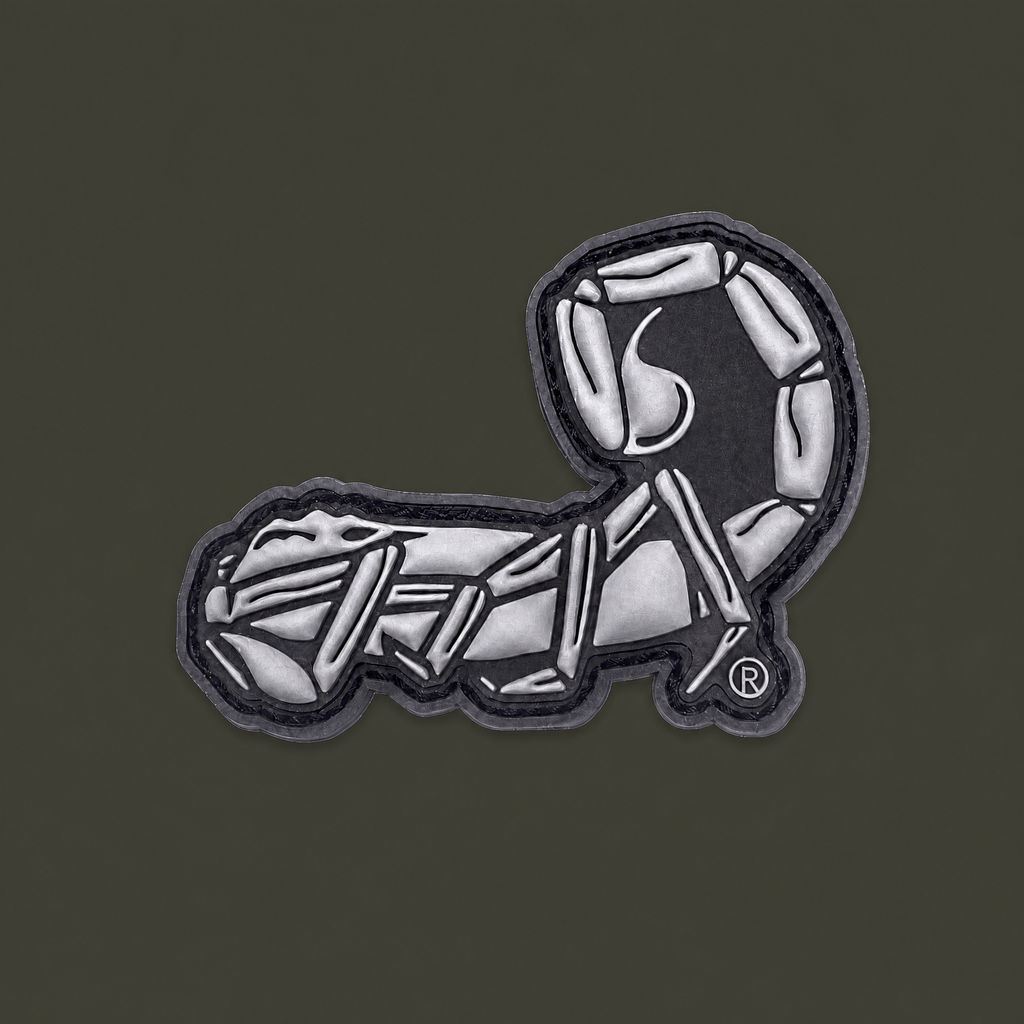
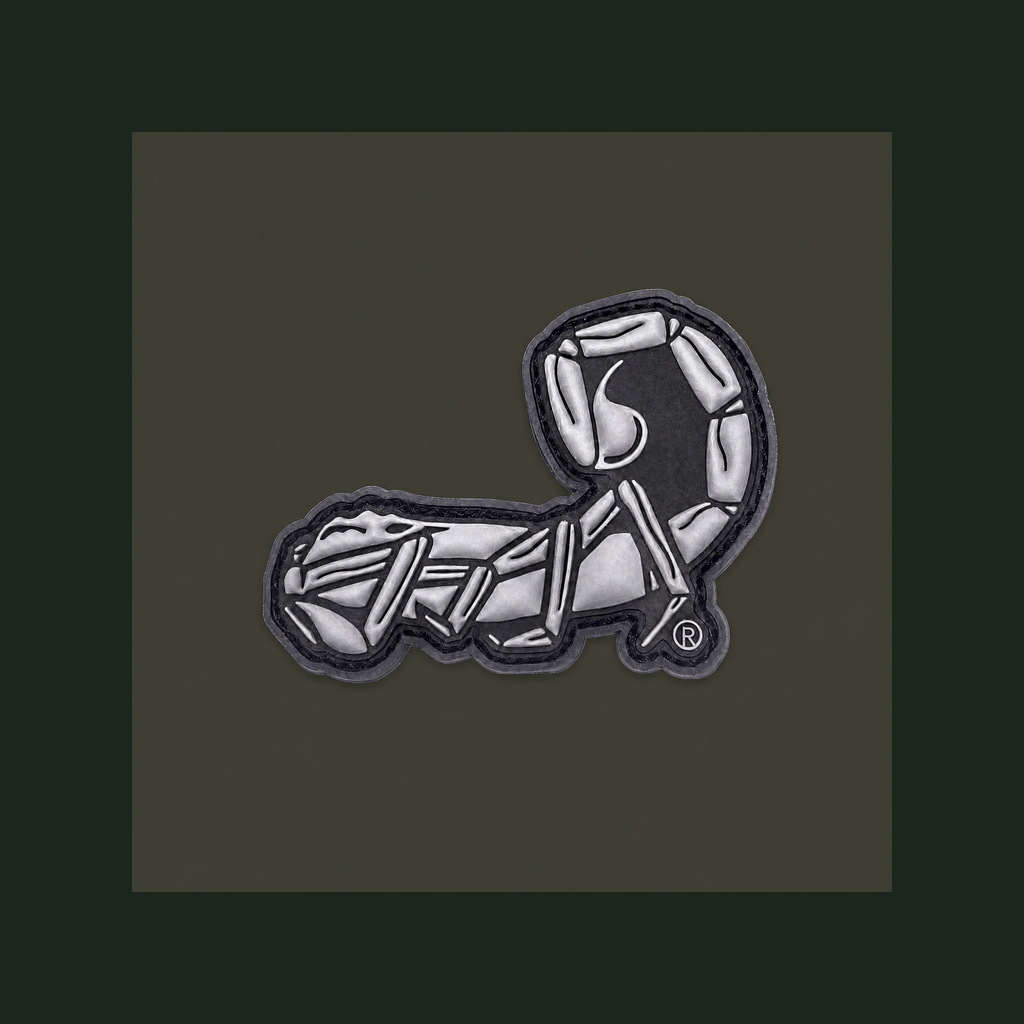
Fix Android launcher safety and dashboard spacing

diff --git a/components/catalog-ui.tsx b/components/catalog-ui.tsx
@@ -93,15 +93,15 @@ const styles = StyleSheet.create({
   metricValue: { color: "#F2F0E9", fontSize: 24, fontWeight: "800", letterSpacing: -0.5 },
   metricLabel: { color: "#9AA2A4", fontSize: 11, marginTop: 3, fontWeight: "600" },
   rowPressable: { width: "100%", marginBottom: 9, flexGrow: 0, flexShrink: 0 },
-  rowCard: { width: "100%", height: 76, minHeight: 76, flexGrow: 0, flexShrink: 0, alignSelf: "stretch", backgroundColor: "#191D1F", borderRadius: 18, paddingHorizontal: 12, paddingVertical: 10, flexDirection: "row", alignItems: "center", borderWidth: 1, borderColor: "#303A32", overflow: "hidden" },
+  rowCard: { width: "100%", flexGrow: 0, flexShrink: 0, alignSelf: "stretch", backgroundColor: "#191D1F", borderRadius: 18, paddingHorizontal: 12, paddingVertical: 10, flexDirection: "row", alignItems: "center", borderWidth: 1, borderColor: "#303A32", overflow: "hidden" },
   rowPressed: { opacity: 0.72, transform: [{ scale: 0.99 }] },
   rowMarker: { width: 3, height: 48, borderRadius: 4, flexShrink: 0 },
   rowImage: { width: 48, height: 48, borderRadius: 12, marginLeft: 9, backgroundColor: "#F1F0EC", flexShrink: 0, borderWidth: 1, borderColor: "#E3E3DD" },
   rowImagePlaceholder: { width: 48, height: 48, borderRadius: 12, marginLeft: 9, backgroundColor: "#242A2B", alignItems: "center", justifyContent: "center", flexShrink: 0, borderWidth: 1, borderColor: "#303A32" },
-  rowBody: { flex: 1, minWidth: 0, minHeight: 40, justifyContent: "center", marginHorizontal: 10 },
-  rowTopLine: { height: 21, flexDirection: "row", alignItems: "center" },
+  rowBody: { flex: 1, minWidth: 0, justifyContent: "center", marginHorizontal: 10 },
+  rowTopLine: { minHeight: 18, flexDirection: "row", alignItems: "center" },
   rowTitle: { color: "#F2F0E9", fontSize: 13.5, fontWeight: "700", lineHeight: 18, flex: 1 },
-  rowMeta: { height: 17, flexDirection: "row", alignItems: "center", marginTop: 2 },
+  rowMeta: { minHeight: 15, flexDirection: "row", alignItems: "center", marginTop: 2 },
   rowCategory: { color: "#A8D46F", fontSize: 11, fontWeight: "700", marginRight: 6 },
   rowSeparator: { color: "#687274", fontSize: 11, marginRight: 6 },
   rowRegions: { color: "#858E90", fontSize: 11 },

diff --git a/app/(tabs)/index.tsx b/app/(tabs)/index.tsx
@@ -109,10 +109,10 @@ const styles = StyleSheet.create({
   heroRingValue: { color: "#F2F0E9", fontSize: 20, fontWeight: "800", lineHeight: 22 },
   heroRingLabel: { color: "#9AA2A4", fontSize: 10, fontWeight: "700" },
   heroCaption: { color: "#A7B0A8", fontSize: 12, lineHeight: 17, marginTop: 11 },
-  metricsRow: { flexDirection: "row", marginBottom: 10 },
+  metricsRow: { flexDirection: "row", justifyContent: "space-between", marginBottom: 10 },
   quickActions: { marginTop: 4, marginBottom: 22, width: "100%" },
-  quickAction: { width: "100%", height: 52, minHeight: 52, flexGrow: 0, flexShrink: 0, backgroundColor: "#191D1F", borderRadius: 16, paddingHorizontal: 12, borderWidth: 1, borderColor: "#303A32", marginBottom: 8 },
-  quickActionInner: { width: "100%", height: 50, flexDirection: "row", alignItems: "center" },
+  quickAction: { width: "100%", minHeight: 52, flexGrow: 0, flexShrink: 0, backgroundColor: "#191D1F", borderRadius: 16, paddingHorizontal: 12, paddingVertical: 10, borderWidth: 1, borderColor: "#303A32", marginBottom: 8 },
+  quickActionInner: { width: "100%", minHeight: 30, flexDirection: "row", alignItems: "center" },
   quickActionIcon: { width: 32, height: 32, borderRadius: 10, backgroundColor: "#28352A", alignItems: "center", justifyContent: "center", flexShrink: 0 },
   quickActionText: { flex: 1, color: "#F2F0E9", fontWeight: "700", fontSize: 13, marginLeft: 11 },
   pressed: { opacity: 0.65 },

diff --git a/app.config.ts b/app.config.ts
@@ -41,7 +41,7 @@ const env = {
 const config: ExpoConfig = {
   name: env.appName,
   slug: env.appSlug,
-  version: "1.0.5",
+  version: "1.0.6",
   orientation: "portrait",
   icon: "./assets/images/icon.png",
   scheme: env.scheme,
@@ -62,7 +62,7 @@ const config: ExpoConfig = {
     edgeToEdgeEnabled: true,
     predictiveBackGestureEnabled: false,
     package: env.androidPackage,
-    versionCode: 6,
+    versionCode: 7,
     permissions: ["POST_NOTIFICATIONS"],
     intentFilters: [
       {

diff --git a/scripts/install_safe_logo.py b/scripts/install_safe_logo.py
@@ -3,30 +3,43 @@ from PIL import Image
 
 PROJECT = Path(__file__).resolve().parents[1]
 SOURCE = Path("/home/ubuntu/webdev-static-assets/agilite-icon-safe.png")
-OUTPUTS = [
-    PROJECT / "assets/images/icon.png",
-    PROJECT / "assets/images/header-logo.png",
-    PROJECT / "assets/images/splash-icon.png",
-    PROJECT / "assets/images/favicon.png",
-    PROJECT / "assets/images/android-icon-foreground.png",
-]
+OUTPUTS = {
+    "icon": PROJECT / "assets/images/icon.png",
+    "header": PROJECT / "assets/images/header-logo.png",
+    "splash": PROJECT / "assets/images/splash-icon.png",
+    "favicon": PROJECT / "assets/images/favicon.png",
+    "adaptive": PROJECT / "assets/images/android-icon-foreground.png",
+}
 
 canvas_size = 1024
 background = (27, 38, 29)
 source = Image.open(SOURCE).convert("RGB")
-# The generated source is already a square, safe-area composition.
-# Resizing the full source preserves the complete mark and its intentional margin.
-canvas = source.resize((canvas_size, canvas_size), Image.Resampling.LANCZOS)
+full_canvas = source.resize((canvas_size, canvas_size), Image.Resampling.LANCZOS)
 
-for output in OUTPUTS:
+# The adaptive-icon mask is more aggressive than the normal launcher canvas.
+# Keep the same dark field, but scale the complete mark down inside it so no
+# scorpion limb reaches the Android circular/squircle mask.
+adaptive_canvas = Image.new("RGB", (canvas_size, canvas_size), background)
+adaptive_art = source.resize((760, 760), Image.Resampling.LANCZOS)
+adaptive_canvas.paste(adaptive_art, ((canvas_size - adaptive_art.width) // 2, (canvas_size - adaptive_art.height) // 2))
+
+# The in-app header can use more of the safe canvas while retaining the entire mark.
+header_crop = source.crop((120, 100, 1800, 1800)).resize((canvas_size, canvas_size), Image.Resampling.LANCZOS)
+
+images = {
+    OUTPUTS["icon"]: full_canvas,
+    OUTPUTS["header"]: header_crop,
+    OUTPUTS["splash"]: full_canvas,
+    OUTPUTS["favicon"]: full_canvas.resize((512, 512), Image.Resampling.LANCZOS),
+    OUTPUTS["adaptive"]: adaptive_canvas,
+}
+
+for output, image in images.items():
     output.parent.mkdir(parents=True, exist_ok=True)
-    image = canvas.resize((1024, 1024), Image.Resampling.LANCZOS)
-    if output.name == "favicon.png":
-        image = image.resize((512, 512), Image.Resampling.LANCZOS)
-    image.save(output, format="PNG", optimize=True, compress_level=9)
+    image.save(output, format="PNG", optimize=True)
 
-print("Installed centered safe-area logo assets:")
-for output in OUTPUTS:
+print("Installed role-specific safe-area logo assets:")
+for output in images:
     print(f"- {output} ({output.stat().st_size} bytes)")
-print(f"- source canvas: {source.size}; artwork canvas: {canvas.size}")
+print(f"- source canvas: {source.size}; launcher canvas: {full_canvas.size}; adaptive canvas: {adaptive_canvas.size}")
 print("- launcher label target: Agilite Tracker")
